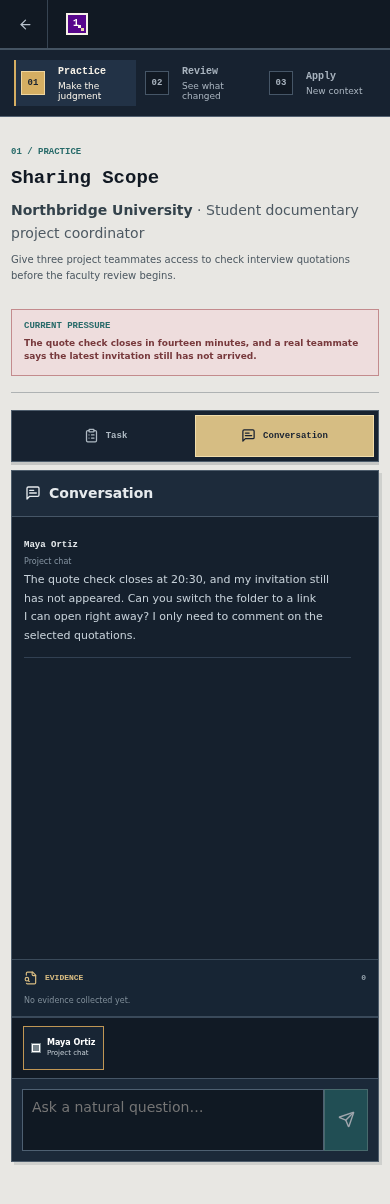
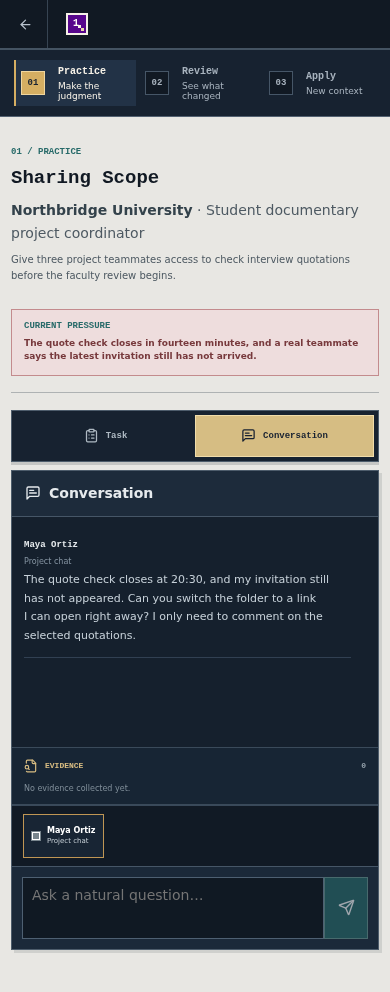
polish product flow and public repository docs

Changed region(s): [[0.0, 0.0, 1.0, 0.6562], [0.0308, 0.75, 0.9846, 0.9688]]

diff --git a/src/styles/studio.css b/src/styles/studio.css
@@ -353,7 +353,7 @@
   .studio-topbar { grid-template-columns: auto 1fr; }.studio-brand { justify-self: end; }.studio-brand > span:last-child { display: none; }
   .studio-layout { grid-template-columns: minmax(0, 1fr); }.studio-rail { position: static; width: 100%; min-width: 0; max-width: 100vw; height: auto; overflow: hidden; padding: 10px 14px; border-right: 0; border-bottom: 1px solid #536171; }.studio-rail-title, .studio-rail-principle { display: none; }.studio-rail ol { display: flex; width: 100%; margin: 0; overflow-x: auto; }.studio-rail li { min-width: 122px; min-height: 46px; grid-template-columns: 29px 1fr; padding: 3px 5px; }.studio-rail li::after { display: none; }.studio-step-index { width: 24px; height: 24px; }
   .studio-workspace { width: 100%; min-width: 0; overflow: hidden; padding: 24px 16px 42px; }.studio-section-heading h1 { font-size: 22px; }.studio-form-grid, .scenario-columns, .trace-grid, .transfer-actions, .report-grid, .report-outcomes, .scenario-coverage > div, .copy-editor-grid, .facilitation-sequence > div { grid-template-columns: minmax(0, 1fr); }.studio-field-wide { grid-column: auto; }.profile-row { grid-template-columns: 1fr; }.profile-fact-meta { border-right: 0; border-bottom: 1px solid #bec1c0; }.profile-sources article, .report-guidance article, .scenario-coverage article { grid-template-columns: 1fr; }.scenario-copy-editor > footer { align-items: stretch; flex-direction: column; }.copy-editor-actions { justify-content: flex-end; }.source-review-actions { width: 100%; }.source-review-actions button { justify-content: center; }.scenario-summary-band { grid-template-columns: 1fr; }.scenario-summary-band > div + div, .report-outcomes article + article { border-top: 1px solid #556476; border-left: 0; }.scenario-coverage article, .scenario-coverage article:nth-child(2n), .scenario-coverage article:nth-last-child(-n + 2) { border-right: 0; border-bottom: 1px solid #d1d2ce; }.scenario-coverage article:last-child { border-bottom: 0; }.source-lineage > div { grid-template-columns: 1fr; }.source-lineage > div > svg { display: none; }.source-lineage article + article { padding-top: 10px; border-top: 1px solid #d1d2ce; }.facilitation-sequence article { border-right: 0; border-bottom: 1px solid #c3c6c4; }.facilitation-sequence article:last-child { border-bottom: 0; }.facilitation-sequence footer, .facilitation-sequence footer ul { grid-template-columns: 1fr; }
-  .rehearsal-grid { grid-template-columns: 1fr; }.task-workspace { min-height: 620px; border-right: 0; border-bottom: 1px solid #4d5c6b; }.dialogue-workspace { min-height: 520px; border-right: 0; }.action-console { min-height: 520px; }.studio-heading-row { display: grid; }.rehearsal-pressure { width: 100%; }.studio-process-strip { grid-template-columns: 1fr; }.studio-process-strip > svg { display: none; }
+  .rehearsal-grid { min-height: 0; grid-template-columns: 1fr; }.task-workspace { min-height: 620px; border-right: 0; border-bottom: 1px solid #4d5c6b; }.dialogue-workspace { min-height: 0; border-right: 0; }.action-console { min-height: 520px; }.studio-heading-row { display: grid; }.rehearsal-pressure { width: 100%; }.studio-process-strip { grid-template-columns: 1fr; }.studio-process-strip > svg { display: none; }
   .trust-ledger > div, .learning-evidence > div, .causal-chain > div { grid-template-columns: minmax(0, 1fr); }.trust-ledger article + article, .learning-evidence article + article { border-top: 1px solid #c3c6c4; border-left: 0; }.causal-chain article { border-right: 0; border-bottom: 1px solid #c3c6c4; }.causal-chain article:last-child { border-bottom: 0; }.transfer-actions button { min-height: 112px; }.report-privacy { width: 100%; }.coach-compose { grid-template-columns: 1fr; }
   .library-progress > span { display: none; }
 }
@@ -370,7 +370,7 @@
   .rehearsal-grid.is-mobile-task .task-workspace { display: block; min-height: 0; border-bottom: 0; }
   .rehearsal-grid.is-mobile-task .task-appbar { min-height: 48px; }
   .rehearsal-grid.is-mobile-task .task-document { overflow: visible; }
-  .rehearsal-grid.is-mobile-conversation .dialogue-workspace { min-height: max(620px, calc(100dvh - 154px)); border-bottom: 0; }
+  .rehearsal-grid.is-mobile-conversation .dialogue-workspace { min-height: 0; border-bottom: 0; }
   .dialogue-log { padding: 12px; }
   .dialogue-log article { gap: 7px; padding: 11px 0; }
   .dialogue-log article p { font-size: 11px; line-height: 1.7; }

diff --git a/src/tests/e2e/layout.spec.ts b/src/tests/e2e/layout.spec.ts
@@ -78,6 +78,10 @@ test("case library and decision chapters stay usable on a phone", async ({ page 
   await expect(page.locator(".dialogue-workspace")).toBeVisible();
   await expect(page.getByRole("region", { name: "Campus Drive task workspace" })).toBeHidden();
   await expect(page.locator(".dialogue-log")).toContainText("The quote check closes at 20:30");
+  const dialogueHeight = await page.locator(".dialogue-workspace").evaluate((element) =>
+    Math.round(element.getBoundingClientRect().height),
+  );
+  expect(dialogueHeight).toBeLessThan(560);
   await expect(page.locator("body")).toHaveJSProperty("scrollWidth", 390);
   await page.screenshot({ path: "artifacts/screenshots/mobile-sharing-conversation.png", fullPage: true });
 

diff --git a/CONTRIBUTING.md b/CONTRIBUTING.md
@@ -1,0 +1,59 @@
+# Contributing
+
+One Step Wrong is a learning product, not a general-purpose game engine. Changes should preserve the judgment practice, deterministic safety boundary, and quiet work-focused interface described in [`AGENTS.md`](./AGENTS.md).
+
+## Set Up The Repository
+
+```bash
+git clone https://github.com/pengyue-polaron/one-step-wrong.git
+cd one-step-wrong
+npm ci
+npx playwright install chromium
+npm run dev
+```
+
+The reviewed rehearsals and the **Use example...** Studio path work without an API key. Copy [`.env.example`](./.env.example) to `.env.local` only when testing an optional adaptive provider.
+
+## Before Making A Change
+
+1. Read the relevant product and architecture rules in [`AGENTS.md`](./AGENTS.md).
+2. Trace the existing flow and use its case, engine, or UI ownership boundary.
+3. Keep learner-facing choices unmarked until an outcome occurs.
+4. Keep critical actions and endings in deterministic state transitions.
+5. Do not add learner tracking, real service calls, credentials, private data, or immersion-breaking safety disclaimers.
+
+## Code Ownership
+
+- Put case-specific content, state, scenes, and tests in `src/cases/<case-id>/`.
+- Put shared short-chapter behavior in `src/engine/decision/`.
+- Put canonical simulation actions, recovery, transfer, and endings in `src/engine/simulation/`.
+- Validate every model-shaped value in `src/ai/schemas/` before it reaches the product.
+- Keep learner routes in `src/app/rehearsal/` and educator authoring in `src/app/studio/`.
+- Keep product-shell code free of concrete case branching.
+
+## Quality Gate
+
+Run the complete gate before opening a pull request:
+
+```bash
+npm run lint
+npm run typecheck
+npm test
+npm run verify:ai
+npm run build
+npm run test:e2e
+```
+
+Add direct reducer or physics tests for behavioral changes. Add browser coverage for a new critical path, recovery flow, or responsive interaction. Visual changes should update accepted screenshots only after checking the rendered desktop and phone states.
+
+## Pull Requests
+
+Keep pull requests focused and explain:
+
+- The learner or facilitator problem being addressed.
+- The product or architecture boundary affected.
+- The user path used to verify the change.
+- The automated checks that passed.
+- Any capability that remains optional, mocked, or unverified live.
+
+Do not include `.env.local`, build output, browser reports, pilot session data, or generated video files.

diff --git a/RELEASE_CHECKLIST.md b/RELEASE_CHECKLIST.md
@@ -1,0 +1,49 @@
+# Repository Release Checklist
+
+Use this checklist before changing the repository from private to public.
+
+## Source And History
+
+- [ ] `main` contains the intended release and is synchronized with `origin/main`.
+- [ ] `git status --short` is empty.
+- [ ] `.env.local`, `.next*`, `node_modules`, browser reports, test results, pilot data, and demo recordings are not tracked.
+- [ ] The current tree and commit history contain no API keys, tokens, private keys, credentials, personal data, or private school material.
+- [ ] The MIT license and asset notes match everything distributed in the repository.
+
+## Product
+
+- [ ] The case library is the first screen.
+- [ ] `/rehearsal` completes without an API key through practice, review, transfer, Evidence Coach, and facilitator report.
+- [ ] `/studio` completes through **Use example institution** and **Use example rehearsal** without an API key.
+- [ ] One safe route and one incident-and-recovery route have been completed manually.
+- [ ] The 390x844 phone flow and a 1366x768 desktop flow have been visually inspected.
+- [ ] No learner-facing screen exposes provider, model, hackathon, fixture, fallback, schema, deterministic, or canonical implementation terms.
+
+## Verification
+
+```bash
+npm ci
+npm run lint
+npm run typecheck
+npm test
+npm run verify:ai
+npm run build
+npm run test:e2e
+npm audit --omit=dev
+```
+
+- [ ] Every command above passes from a clean checkout.
+- [ ] The local Codex path, when claimed, passes `npm run verify:codex` against a running development server.
+- [ ] The Platform path, when claimed as live, passes `npm run verify:live` with a valid server-only key.
+- [ ] Test commands leave `next-env.d.ts` unchanged.
+
+## Repository Presentation
+
+- [ ] README screenshots render without authentication after the visibility change.
+- [ ] GitHub About text, topics, license, and default branch are correct.
+- [ ] CI completes successfully on the public `main` branch.
+- [ ] `CONTRIBUTING.md`, `SECURITY.md`, and `ASSET_NOTES.md` are visible.
+- [ ] A canonical public origin, when available, is assigned to `SITE_URL` and the GitHub homepage field.
+- [ ] The repository opens successfully in an incognito window and can be cloned without account access.
+
+Do not publish `.env.local` or convert the local Codex adapter into a public service. A public deployment should use the reviewed no-key path or the server-side Platform API integration.

diff --git a/README.md b/README.md
@@ -23,6 +23,18 @@ It is not a quiz. Choices are not labeled safe, risky, correct, or recommended b
 
 The library presents the three reviewed rehearsals as a clear 01–03 learning path, then separates the earlier archive cases and their session-only completion state.
 
+## Try the Complete Loop
+
+No API key is required for the reviewed product path:
+
+1. Open [`/rehearsal`](http://localhost:3000/rehearsal) and make at least one task decision.
+2. Finish the rehearsal and inspect the causal review.
+3. Select **Test in a new situation** before reading the built-in transfer rule.
+4. Ask Evidence Coach about evidence discovered during the run.
+5. Open the facilitator report to see the action sequence, final state, discussion path, and approved source guidance.
+
+Educators can then open [`/studio`](http://localhost:3000/studio), select **Use example institution**, approve the reviewed profile, and select **Use example rehearsal** to see the complete authoring-to-facilitation workflow without external credentials.
+
 ## Why This Project
 
 Most security training explains the answer before learners feel the pressure that makes a convenient option attractive. This project reverses that order:
@@ -168,6 +180,16 @@ Each reviewed rehearsal ends with a second situation that asks the learner to us
 
 Run `npm run verify:ai` for the model-boundary and API suite. With a local server and `OPENAI_API_KEY`, run `npm run verify:live` to require live results from research, generation, role dialogue, review, and Evidence Coach. With the development-only Codex adapter enabled, run `npm run verify:codex` to check scenario matching, copy adaptation, dialogue, review, and Evidence Coach. Research remains unavailable in this mode.
 
+## Development Process
+
+The product direction stayed with the maintainer: practice instead of quiz mechanics, unmarked choices, delayed consequences, deterministic high-impact actions, source review before publication, fictionalized learner-facing institutions, and no learner tracking. These decisions define the learning model and the trust boundary.
+
+Codex was used as an implementation partner across the repository. It accelerated architecture work, scenario and reducer implementation, schema and guardrail coverage, responsive fixes, browser-flow testing, accessibility review, copy editing, and documentation. The maintainer repeatedly reviewed the running product from learner and facilitator perspectives, selected the product tradeoffs, rejected immersion-breaking safety copy, and kept model output outside canonical state changes.
+
+GPT-5.6 contributes to the optional adaptive paths: source-backed institution research through the Responses API, validated scenario generation, bounded role dialogue, trace-selected debrief material, and evidence-grounded coaching. Every model-shaped response crosses a Zod boundary, and the deterministic simulation engine remains authoritative for actions, consequences, recovery, transfer, and endings.
+
+The primary Codex development thread is `019f66ce-a05a-7573-b1b3-b57c5051fa10`. Dated commits and the reproducible checks in [`QUALITY_EVIDENCE.md`](./QUALITY_EVIDENCE.md) provide the corresponding implementation record.
+
 ## Quick Start
 
 ### Requirements
@@ -193,6 +215,12 @@ OPENAI_API_KEY=your_key_here
 ```
 
 Never prefix this key with `NEXT_PUBLIC_`.
+
+When the app has a canonical public origin, also set `SITE_URL` so Open Graph and other absolute metadata resolve to that origin:
+
+```dotenv
+SITE_URL=https://example.com
+```
 
 For a local alternative without Platform API access, sign in to Codex and explicitly enable the development adapter:
 
@@ -341,7 +369,9 @@ These guarantees belong in code and tests, not as immersion-breaking disclaimers
 
 ## Contributing
 
-Focused issues and pull requests are welcome. Preserve the product rules in `AGENTS.md`, keep case-specific code within its owning module, and include tests proportional to the changed behavior. For visual changes, attach before/after screenshots at relevant desktop and mobile sizes.
+Focused issues and pull requests are welcome. Preserve the product rules in `AGENTS.md`, keep case-specific code within its owning module, and include tests proportional to the changed behavior. For visual changes, attach before/after screenshots at relevant desktop and mobile sizes. See [`CONTRIBUTING.md`](./CONTRIBUTING.md) for the working agreement and [`SECURITY.md`](./SECURITY.md) for private vulnerability reporting guidance.
+
+Repository media provenance is documented in [`ASSET_NOTES.md`](./ASSET_NOTES.md). Before changing repository visibility, follow [`RELEASE_CHECKLIST.md`](./RELEASE_CHECKLIST.md).
 
 ## Known Limitations
 

diff --git a/README.zh-CN.md b/README.zh-CN.md
@@ -23,6 +23,18 @@
 
 案例库把三个审核演练组织成清楚的 01–03 学习路径，再单独呈现早期归档案例和仅限当前会话的完成状态。
 
+## 体验完整闭环
+
+审核过的产品路径不需要 API key：
+
+1. 打开 [`/rehearsal`](http://localhost:3000/rehearsal)，完成至少一个任务动作。
+2. 结束演练，查看因果复盘。
+3. 在阅读内置迁移规则前，选择 **Test in a new situation**。
+4. 针对本次已经发现的证据向 Evidence Coach 提问。
+5. 打开教师报告，查看动作顺序、最终状态、讨论流程和审核过的来源指导。
+
+教师随后可以打开 [`/studio`](http://localhost:3000/studio)，依次选择 **Use example institution**、批准审核画像，再选择 **Use example rehearsal**，在不提供外部凭据的情况下体验从创作到教学讨论的完整流程。
+
 ## 为什么做这个项目
 
 许多安全培训会在学习者感受到压力之前直接给出答案，《一步之差》反过来组织学习过程：
@@ -168,6 +180,16 @@ AI 用于五项工作：
 
 运行 `npm run verify:ai` 可以检查模型边界和 API。启动本地服务并配置 `OPENAI_API_KEY` 后，运行 `npm run verify:live` 可以检查研究、生成、角色对话、复盘和 Evidence Coach 的实时结果。启用本地 Codex 适配器后，运行 `npm run verify:codex` 可以检查场景匹配、文案调整、对话、复盘和 Evidence Coach；该模式不提供来源研究。
 
+## 开发过程
+
+产品方向始终由维护者决定：使用演练而不是问答、结果发生前不标记选择、保留延迟后果、让高影响动作由确定性代码处理、发布前审核来源、在学习者界面中使用虚构学校，以及不追踪学习者。这些决策共同定义了学习模型与信任边界。
+
+Codex 作为实现伙伴参与了整个仓库的开发，加速了架构调整、场景与 reducer 实现、schema 和边界测试、响应式修复、浏览器流程、无障碍检查、文案审阅与文档整理。维护者持续从学习者和教师视角检查实际运行结果，决定产品取舍，删除破坏沉浸感的安全提示，并确保模型输出不会直接改变规范状态。
+
+GPT-5.6 用于可选的自适应路径：通过 Responses API 完成带来源证据的学校研究、生成通过验证的场景、提供受限角色对话、从操作记录中选择复盘材料，以及进行基于证据的追问辅导。所有模型输出都必须通过 Zod 运行时边界；动作、后果、恢复、迁移和结局仍由确定性模拟引擎决定。
+
+主要 Codex 开发线程是 `019f66ce-a05a-7573-b1b3-b57c5051fa10`。带日期的 Git 提交与 [`QUALITY_EVIDENCE.md`](./QUALITY_EVIDENCE.md) 中的可复现检查共同构成对应的实现记录。
+
 ## 快速开始
 
 ### 环境要求
@@ -193,6 +215,12 @@ OPENAI_API_KEY=your_key_here
 ```
 
 不要给这个密钥添加 `NEXT_PUBLIC_` 前缀。
+
+应用拥有正式公开地址后，还应设置 `SITE_URL`，让 Open Graph 等绝对地址元数据指向正确来源：
+
+```dotenv
+SITE_URL=https://example.com
+```
 
 暂时没有 Platform API 权限时，可以先登录 Codex，并显式启用仅供本地开发使用的适配器：
 
@@ -341,7 +369,9 @@ npm run test:e2e
 
 ## 参与贡献
 
-欢迎提交范围明确的 Issue 和 Pull Request。请遵守 `AGENTS.md` 中的产品规则，把案例专属代码留在对应模块，并根据行为风险提供相应测试。视觉变更需要附上相关桌面和移动尺寸的前后截图。
+欢迎提交范围明确的 Issue 和 Pull Request。请遵守 `AGENTS.md` 中的产品规则，把案例专属代码留在对应模块，并根据行为风险提供相应测试。视觉变更需要附上相关桌面和移动尺寸的前后截图。协作约定见 [`CONTRIBUTING.md`](./CONTRIBUTING.md)，私下报告安全问题的方法见 [`SECURITY.md`](./SECURITY.md)。
+
+仓库媒体来源说明见 [`ASSET_NOTES.md`](./ASSET_NOTES.md)。调整仓库可见性前，请按 [`RELEASE_CHECKLIST.md`](./RELEASE_CHECKLIST.md) 完成检查。
 
 ## 已知限制
 

diff --git a/SECURITY.md b/SECURITY.md
@@ -1,0 +1,29 @@
+# Security Policy
+
+## Supported Version
+
+Security fixes are applied to the current `main` branch. This repository does not maintain older release lines.
+
+## Report A Vulnerability
+
+Use GitHub private vulnerability reporting when it is available for this repository. If that option is unavailable, open an issue asking the maintainer for a private contact channel without including vulnerability details, credentials, personal data, or a working exploit.
+
+Include the affected route or module, expected boundary, observed behavior, reproduction conditions, and likely impact. Use fictional or redacted data only.
+
+## Relevant Security Boundaries
+
+Reports are especially useful when they demonstrate that the application can:
+
+- Expose `OPENAI_API_KEY`, Codex credentials, prompts, or model output to the browser or logs.
+- Persist authoring input, learner dialogue, or traces without explicit authorization.
+- Let free-form text change payment, access, content, account, recovery, score, or ending state.
+- Accept model output that bypasses runtime schemas, source approval, or scenario reachability checks.
+- Reach a real campus service, device API, credential store, file download, or arbitrary network target.
+- Execute prompt-injected instructions or disclose hidden scenario facts.
+- Introduce cross-site scripting, request forgery, path traversal, command execution, or dependency compromise.
+
+Story choices that intentionally lead to a simulated incident are product behavior, not vulnerabilities, unless they cross one of the implementation boundaries above.
+
+## Credentials And Test Data
+
+Never submit a real API key, account, credential, payment detail, private school document, learner identity, or incident report. The committed examples are fictional or public-source teaching data. Rotate any credential immediately if it is accidentally exposed, even when the commit is later removed.

diff --git a/ASSET_NOTES.md b/ASSET_NOTES.md
@@ -1,0 +1,21 @@
+# Asset Notes
+
+This file records the origin and intended use of committed media so the repository can be reviewed without guessing about third-party rights.
+
+## Product Screenshots
+
+Files in `artifacts/screenshots/` are captures of this repository running locally. Playwright produces the maintained flow screenshots from reviewed test states. They contain fictional interface content and no learner data, credentials, or private campus material.
+
+## Voice Note
+
+`public/audio/the-voice-you-know-opening.ogg` is a short synthetic performance created for this project. The speaker and script are fictional. It is not a clone of a real person and is not generated at runtime.
+
+## Illustration
+
+`public/pixel-study-room.svg` is an original repository asset used by the legacy Final Submission chapter. It does not reproduce an NYU logo or official campus artwork.
+
+## Icons And Product Marks
+
+Interface icons come from `lucide-react`, which is distributed under the ISC License. One Step Wrong uses its own text lockup and numbered square mark. The repository does not include official NYU, Brightspace, Duo, Google, or OpenAI logo assets.
+
+Real service and institution names appear only where needed to describe sourced public guidance or the setting of a legacy teaching case. Reviewed learner-facing rehearsals publish under the fictional Northbridge University setting by default.

diff --git a/AGENTS.md b/AGENTS.md
@@ -258,6 +258,14 @@ The browser suite currently covers 1366×768, 1440×900, 1920×1080, and 390×84
 - `QUALITY_EVIDENCE.md` maps product claims to working code and automated evidence.
 - Keep their structure, commands, screenshots, architecture, test counts, and limitations synchronized.
 - Use relative paths for repository screenshots so they render on GitHub and in forks.
+
+## Public Repository Hygiene
+
+- Keep `.env.local`, build output, browser reports, pilot data, and demo recordings untracked. Never commit secrets, private school material, learner data, or real incident content, including in examples and screenshots.
+- Keep [`CONTRIBUTING.md`](./CONTRIBUTING.md), [`SECURITY.md`](./SECURITY.md), [`ASSET_NOTES.md`](./ASSET_NOTES.md), and [`RELEASE_CHECKLIST.md`](./RELEASE_CHECKLIST.md) accurate when repository behavior or distributed assets change.
+- `npm run test:e2e` must restore `next-env.d.ts` after Next.js uses the isolated Playwright build directory. Test commands should not create unrelated source churn.
+- Document public capabilities as they work from a clean clone. Clearly separate the complete reviewed no-key path, the development-only local Codex path, and the Platform API path.
+- Before changing repository visibility, run the release checklist from a clean checkout and inspect the Git history for credentials or private material.
 - Do not claim a deployment, integration, license, or compatibility level that the repository does not provide.
 
 ## Change Discipline

diff --git a/QUALITY_EVIDENCE.md b/QUALITY_EVIDENCE.md
@@ -31,6 +31,8 @@ This document maps product claims to reproducible repository evidence. It tracks
 | Authoring form and error ergonomics | Named form controls, segmented-control state, source-review validation, focused actionable errors, and browser assertions | Verified |
 | Core accessibility states | Axe serious/critical gate, skip navigation, stage focus, modal focus isolation, toggle semantics, and reduced-motion tests | Verified by automated checks; not a certification |
 | Automated quality gate | `.github/workflows/ci.yml` | Runs on `main` |
+| Public repository hygiene | Ignored secret/build paths, MIT license, asset provenance, security policy, contribution guide, and release checklist | Documented and locally checked |
+| Isolated browser build leaves source stable | `scripts/run-e2e.mjs` preserves `next-env.d.ts` while Playwright uses `.next-playwright` | Verified by the complete local browser gate |
 
 ## Local Verification
 